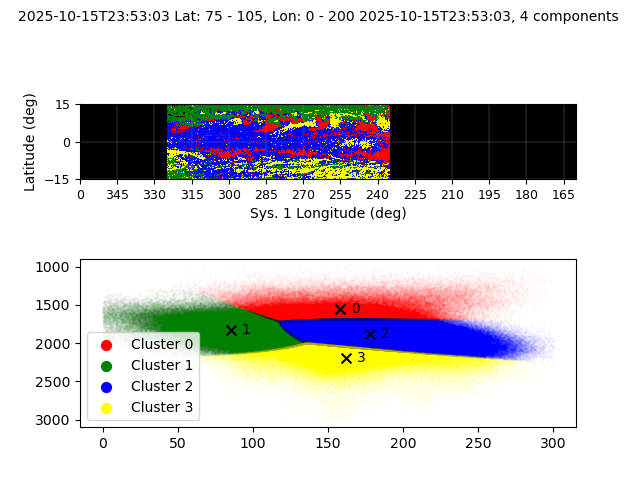
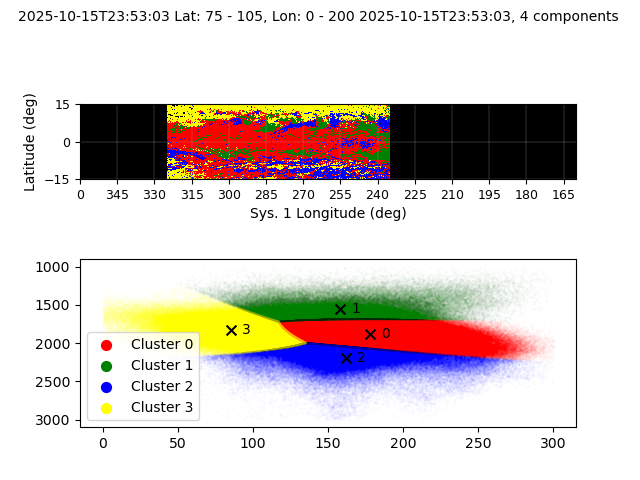
create silhouette scoring plots for cluster number

Changed region(s): [[0.1562, 0.5625, 0.875, 0.875], [0.25, 0.2188, 0.625, 0.375]]

diff --git a/scripts/clustering/grid_search.py b/scripts/clustering/grid_search.py
@@ -1,9 +1,14 @@
 
 import numpy as np
 from sklearn.mixture import GaussianMixture as GMM
-from scripts.preprocessing.preprocessing import get_pix_arr
+from sklearn import metrics
 from sklearn.model_selection import GridSearchCV
 import pandas as pd
+import scripts.preprocessing.preprocessing as pre
+import scripts.clustering.clusters as CL 
+import pylab as plt
+from sklearn.pipeline import Pipeline
+from sklearn.preprocessing import StandardScaler
 #full, tied, diagonal, spherical
 
 def gmm_bic_score(estimator, X):
@@ -39,15 +44,17 @@ def get_optimal_gmm_model(
     None
     '''
     
+    print(com_range)
     param_grid = {
         "n_components": range(com_range[0], com_range[1]),
         "covariance_type": cov_types
     }
 
-    grid_search = GridSearchCV(GMM(), param_grid = param_grid, scoring = gmm_bic_score)
-
-
+    #grid_search = GridSearchCV(GMM(), param_grid = param_grid, scoring = gmm_bic_score)
+    grid_search = GridSearchCV(GMM(), param_grid = param_grid)
+    print("fitting...")
     grid_search.fit(pix_arr)
+    print("done!")
 
 
     df = pd.DataFrame(grid_search.cv_results_)[
@@ -63,9 +70,76 @@ def get_optimal_gmm_model(
     )
     print(df.sort_values(by = "BIC score").head())
 
-#pix_arr =  get_pix_arr([[60, 160], [1400, 2200]], ["NH3", "PCld"])
-hst_pix_arr = get_pix_arr([[60, 160], [1400, 2200], [0.1, 0.4], [0.35, 0.75]], ["NH3", "PCld", "AOI", "CI"])
+#silhouette graph
+def SelBest(arr:list, X:int)->list:
+    '''
+    returns the set of X configurations with shorter distance
+    '''
+    dx=np.argsort(arr)[:X]
+    return arr[dx]
 
-get_optimal_gmm_model(hst_pix_arr, [5, 15])
+
+def silhouette_graph(X):
+    n_clusters=np.arange(3, 9)
+    sils=[]
+    sils_err=[]
+    iterations=5
+    
+    for n in n_clusters:
+        tmp_sil=[]
+        for _ in range(iterations):
+            rand_idx = np.random.choice(len(X), 20000)
+            X_sub = X[rand_idx]
+            print(X_sub)
+            gmm_model = GMM(n_components=n, covariance_type="full")
+            pipe = Pipeline([('scaler', StandardScaler()), ('gmm', gmm_model)])
+            pipe.fit(X_sub) 
+            labels=pipe.predict(X_sub)
+            
+            sil=metrics.silhouette_score(X_sub, labels, metric='euclidean')
+            tmp_sil.append(sil)
+        #val=np.mean(SelBest(np.array(tmp_sil), int(iterations/5)))
+        val=np.mean(SelBest(np.array(tmp_sil), int(iterations)))
+        err=np.std(tmp_sil)
+        sils.append(val)
+        sils_err.append(err)
+    fig, axis = plt.subplots(1, 1)
+    plt.errorbar(n_clusters, sils, yerr=sils_err)
+    plt.title("Silhouette Scores", fontsize=20)
+    plt.xticks(n_clusters)
+    plt.xlabel("N. of clusters")
+    plt.ylabel("Score")
+    return fig
+    
+
+
+def run_grid_search(keywords, param_ranges, 
+                           latRng = [85, 95], lngRng = [230, 330], 
+                            cm_num = 1):
+    [input_arr, subset_shape] = pre.get_input_array(keywords, param_ranges, latRng, lngRng, cm_num)
+    #pred1 = CL.create_clusters(input_arr[:, 0:len(keywords)], "full", 3, False, 0)
+
+    #pred2 = CL.create_clusters(input_arr[:, 0:len(keywords)], "full", 4, False, 0)
+    pred3 = CL.create_clusters(input_arr[:, 0:len(keywords)], "full", 5, False, 0)
+    pred10 = CL.create_clusters(input_arr[:, 0:len(keywords)], "full", 10, False, 0)
+    pred10 = CL.create_clusters(input_arr[:, 0:len(keywords)], "full", 20, False, 0)
+
+def run_sil_graph(keywords, param_ranges, 
+                           latRng = [85, 95], lngRng = [230, 330], 
+                            cm_num = 1):
+    [input_arr, subset_shape] = pre.get_input_array(keywords, param_ranges, latRng, lngRng, cm_num)
+    fig = silhouette_graph(input_arr[:, 0:len(keywords)])
+    keyword_str = '_'.join(keywords)
+    fig.savefig(f"cluster_evaluations/silhouette_chart_{keyword_str}")
+    
+
+
+
+    #get_optimal_gmm_model(input_arr[:, 0:len(keywords)], [3, 3])
+#run_grid_search(["NH3", "PCld", "AOI", "CI"], [[0, 300], [1000,  3000], [0, 1], [0, 1]], [75, 105], [0, 200])
+#run_sil_graph(["NH3", "PCld"], [ [0, 300], [1000, 3000]], [75, 105], [0, 200])
+run_sil_graph(["NH3", "PCld", "AOI", "CI"], [[0, 300], [1000,  3000], [0, 1], [0, 1]], [75, 105], [0, 200])
+
+
 
 

diff --git a/scripts/processes.py b/scripts/processes.py
@@ -30,9 +30,8 @@ color_dict = {
 
 def create_map_comp_figure(keywords, latRng, lngRng, cm_num, n_comp, pred, input_arr, subset_shape, param_ranges, threshold, cmap):
     # create map comparison figure
-    print(np.unique(pred, return_counts=True))
+  
     fig2, axis2 = pl.subplots(3, 1, constrained_layout = True)
-    #fig2.tight_layout(rect = [0, 0, 1, 0.95])
     map1 = pre.get_patch(keywords[0], latRng, lngRng, cm_num)
     map2 = pre.get_patch(keywords[1], latRng, lngRng, cm_num)
     MP.create_cluster_map(axis2[0], n_comp, pred, input_arr, subset_shape, latRng, lngRng, cmap, cm_num)
@@ -45,8 +44,6 @@ def create_map_comp_figure(keywords, latRng, lngRng, cm_num, n_comp, pred, input
 
 def create_plot_figure(keywords, latRng, lngRng, cm_num, n_comp, pred, input_arr, subset_shape, param_ranges, threshold, cmap, cov_type):
     fig1, axis1 = pl.subplots(2, 1)
-    print(np.unique(pred, return_counts=True))
-   
     MP.create_cluster_map(axis1[0], n_comp, pred, input_arr, subset_shape, latRng, lngRng, cmap, cm_num)
     PL.create_cluster_plot(axis1[1],  keywords, 0, 1, input_arr, pred,  n_comp, cov_type, latRng, lngRng, cmap, cm_num)
     fig1.suptitle(create_plot_title(keywords, latRng, lngRng, n_comp, threshold), fontsize = 10)
@@ -193,11 +190,11 @@ def create_map_comparison(date, keywords, param_ranges,
 # longitude 0 - 200, latitude 75 - 105
 
 #output_comparison_and_plot("20251016", ["NH3", "PCld"], [[0, 300], [1000,  3000]], [75, 105], [0, 200], 4)
-#output_comparison_and_plot("20251016", ["AOI", "CI"], [[0, 1], [0, 1]], [75, 105], [0, 200])
+#output_comparison_and_plot("20251016", ["AOI", "CI"], [[0, 1], [0, 1]], [75, 105], [0, 200], 3)
 
 
-output_cluster_map_and_plots("20251016", ["NH3", "PCld", "AOI", "CI"], [[0, 300], [1000,  3000], [0, 1], [0, 1]], [75, 105], [0, 200], 4)
-#output_cluster_map_and_plot("20251016", ["NH3", "PCld"], [[0, 300], [1000,  3000]], [75, 105], [0, 200], 4)
+#output_cluster_map_and_plots("20251016", ["NH3", "PCld", "AOI", "CI"], [[0, 300], [1000,  3000], [0, 1], [0, 1]], [75, 105], [0, 200], 3)
+output_cluster_map_and_plot("20251016", ["NH3", "PCld"], [[0, 300], [1000,  3000]], [75, 105], [0, 200], 4)
 #create_map_comparison("20251016", ["AOI", "CI"], [[0, 1], [0, 1]], [75, 105], [0, 200])
 #output_cluster_map_and_plot("20251016", ["AOI", "CI"], [[0, 1], [0, 1]], [75, 105], [0, 200], 4)
 

diff --git a/scripts/clustering/clusters.py b/scripts/clustering/clusters.py
@@ -21,6 +21,10 @@ def create_clusters(pix_arr, cov_type, n_components, is_soft_clustering, thresho
     pipe = Pipeline([('scaler', StandardScaler()), ('gmm', gmm_model)])
   
     pipe.fit(pix_arr)
+    scaled = pipe.named_steps["scaler"].transform(pix_arr)
+    bic = pipe.named_steps["gmm"].bic(scaled)
+    print("BIC scoring")
+    print(bic)
     predictions = []
     if(not is_soft_clustering):
         predictions = pipe.predict(pix_arr)

diff --git a/config/config.py b/config/config.py
@@ -3,7 +3,7 @@ config = {
     'input': "data/HST/20251016UT/Sys1",
     #'input': "data/L4/20251214UT",
     "output": "data/visualizations/HST/20251016UT/lon_0-200",
-    "soft_clustering": True,
+    "soft_clustering": False,
     
 
 }
